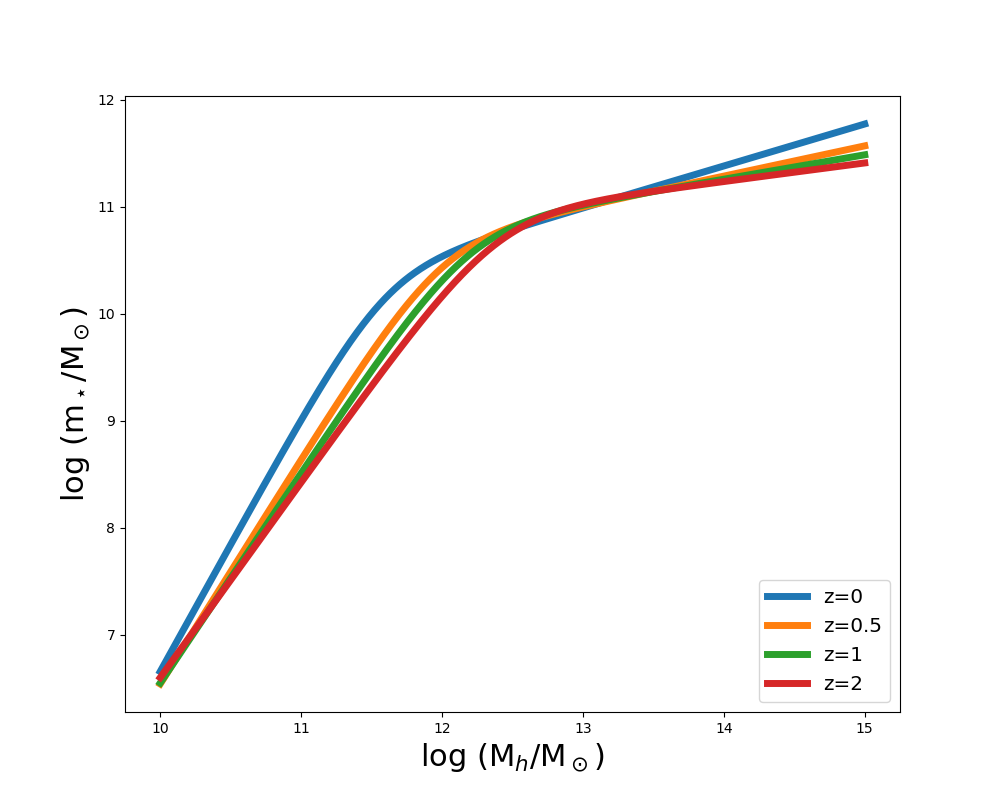
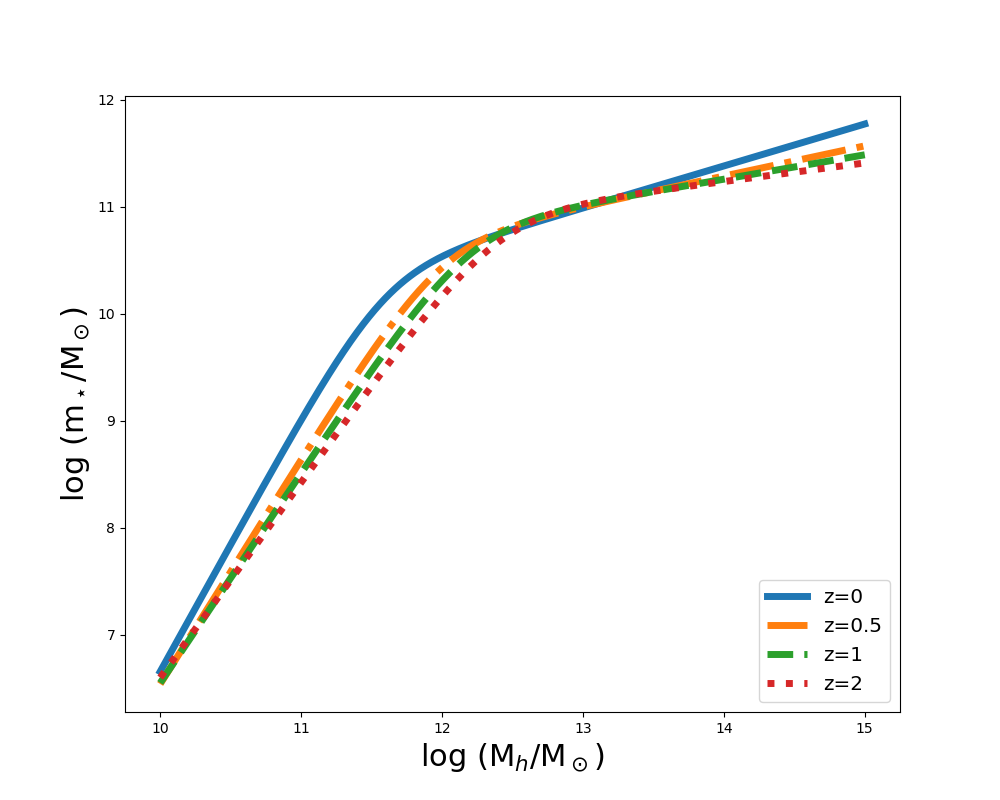
update Lab 5 with additional calculations and plot styles

diff --git a/Labs/Lab5/Lab5.py b/Labs/Lab5/Lab5.py
@@ -237,16 +237,16 @@ plt.plot(np.log10(mh), np.log10(MosterZ0.StellarMass()),
 # Continue plotting for the other redshifts here
 # Plot z = 0.5
 plt.plot(np.log10(mh), np.log10(MosterZ05.StellarMass()),
-         linewidth = 5, label='z=0.5')
+         linewidth = 5, label='z=0.5', ls='-.')
 
 # Plot z = 1
 plt.plot(np.log10(mh), np.log10(MosterZ1.StellarMass()),
-         linewidth = 5, label='z=1')
+         linewidth = 5, label='z=1', ls='--')
 
 
 # Plot z = 2
 plt.plot(np.log10(mh), np.log10(MosterZ2.StellarMass()),
-         linewidth = 5, label='z=2')
+         linewidth = 5, label='z=2', ls=':')
 
 
 # Axes labels 
@@ -276,9 +276,25 @@ plt.savefig('AbundanceMatching_Lab5.png')
 # ## C) 
 # What is the $\Lambda$CDM expected halo mass for the LMC (using Abundance Matching)?  
 
+# LMC Halo Mass
+haloLMC1 = 3e10 # traditional halo mass (model)
 
+# Abundance Matching 
+LMC1 = AbundanceMatching(haloLMC1, 0)
 
+#Stellar Mass
+LMC1star = LMC1.StellarMass()
 
+print(f"The stellar mass of the LMC halo at z=0 is {LMC1star:.2e}")
+print(f"{LMC1star/3e9*100:.2f}% of the observed stellar mass of the LMC")
+
+# say we know that LMC stellar mass = 3e9 Msun
+# what the halo mass should be?
+haloLMC2 = 17e10
+LMC2 = AbundanceMatching(haloLMC2, 0)
+LMC2star = LMC2.StellarMass()
+print(f"The stellar mass of the LMC halo at z=0 is {LMC2star:.2e}")
+print(f"{LMC2star/3e9*100:.2f}% of the observed stellar mass of the LMC")
 
 
 # # Q2
@@ -289,7 +305,21 @@ plt.savefig('AbundanceMatching_Lab5.png')
 # ## B)
 # What is the expected stellar mass of an L* galaxy at z = 2? 
 
+# Find characteristic mass for z=0
+M1halo_z0 = MosterZ0.logM1()
+print(f"The characteristic log mass (M1) for z=0 is {M1halo_z0:.2f}")
+
+# Find the stellar mass of an L* galaxy at z=0
+Lstar_z0 = AbundanceMatching(10**M1halo_z0,0)
+LstarMass_z0 = Lstar_z0.StellarMass()
+print(f"The stellar log mass of an L* galaxy at z=0 is {np.log10(LstarMass_z0):.2f}")
 
 
+# Find characteristic mass for z=2
+M1halo_z2 = MosterZ2.logM1()
+print(f"The characteristic log mass (M1) for z=2 is {M1halo_z2:.2f}")
 
-
+# Find the stellar mass of an L* galaxy at z=2
+Lstar_z2 = AbundanceMatching(10**M1halo_z2,2)
+LstarMass_z2 = Lstar_z2.StellarMass()
+print(f"The stellar log mass of an L* galaxy at z=2 is {np.log10(LstarMass_z2):.2f}")
